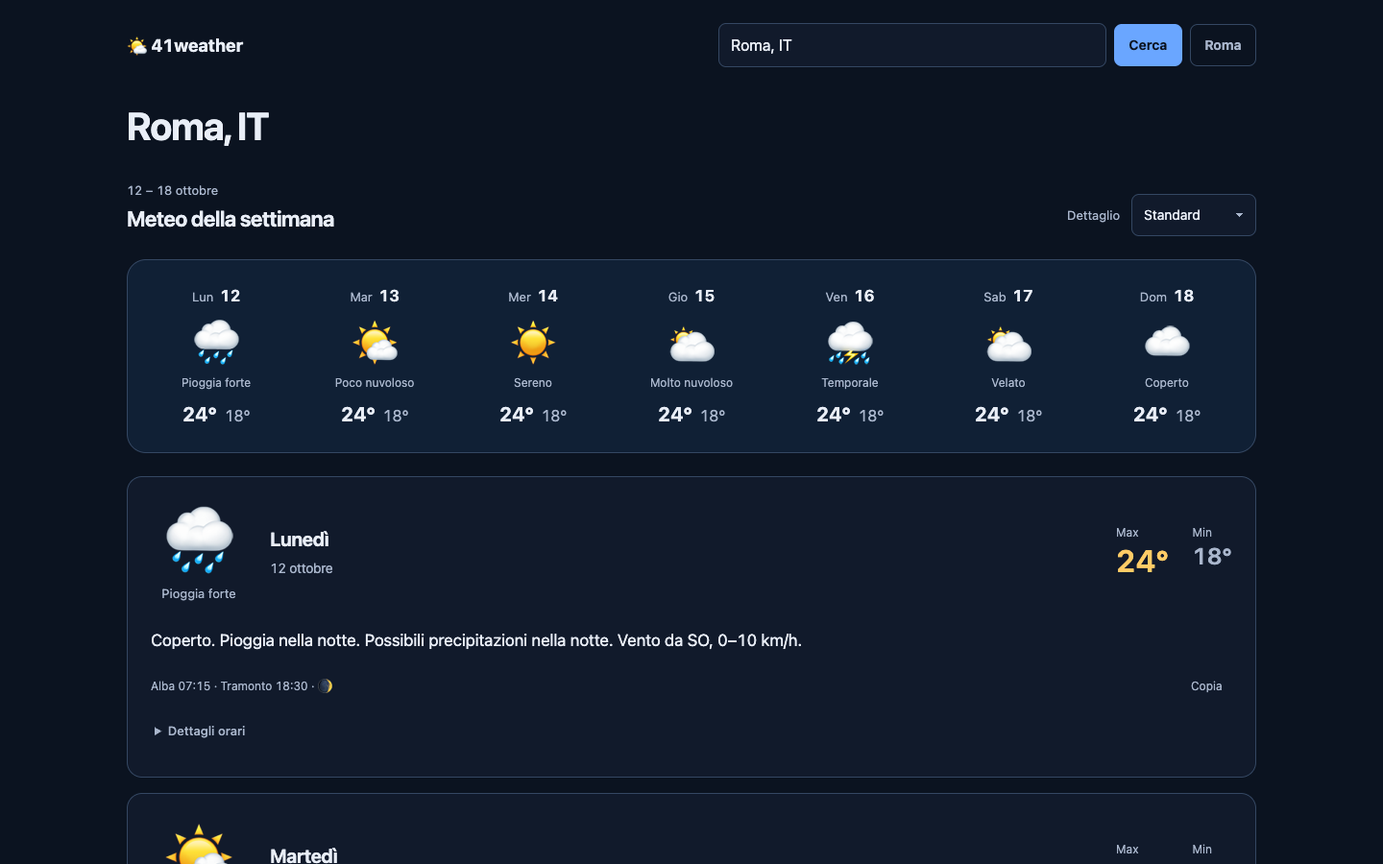
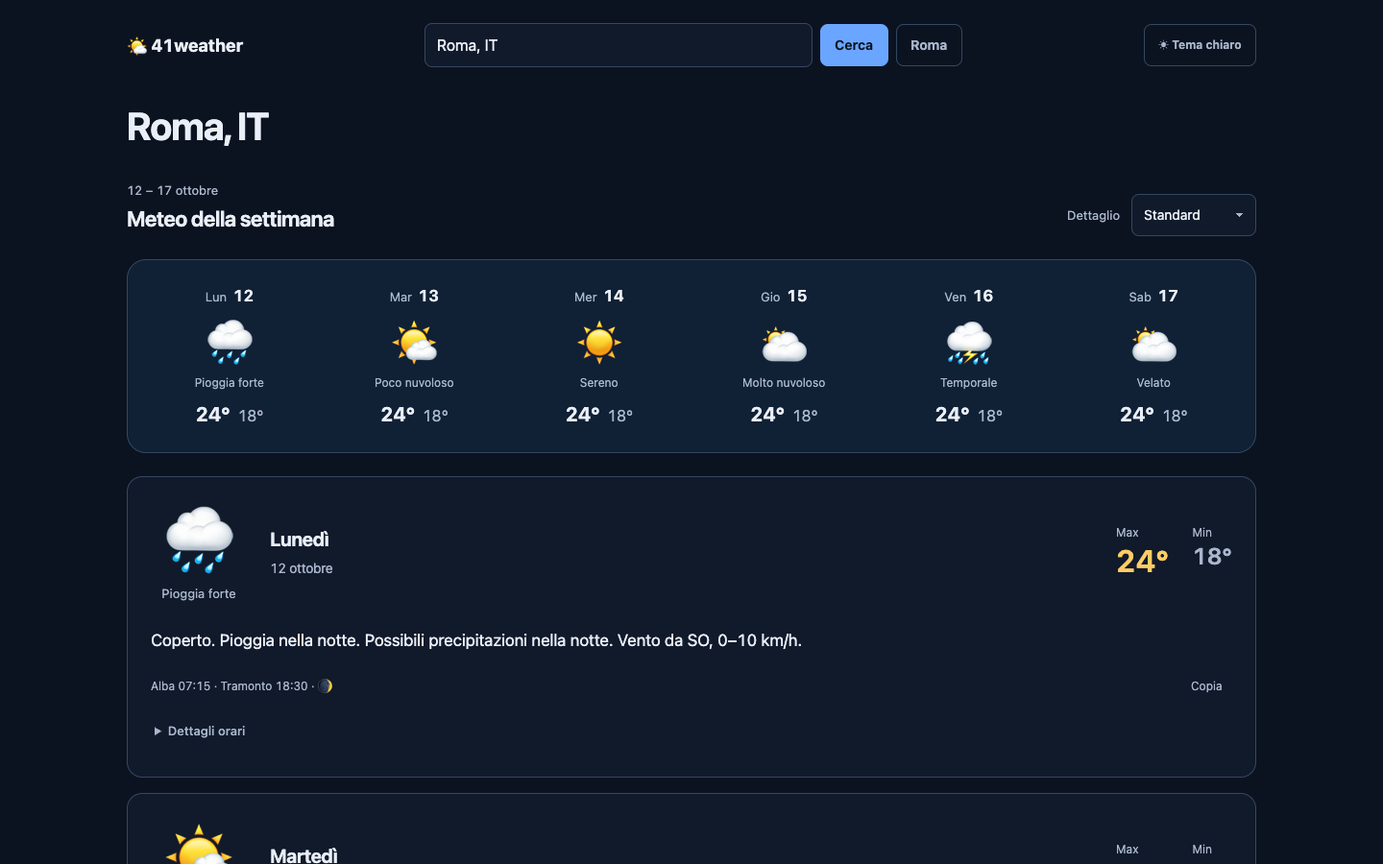
Add light theme, distinct marine columns and hide incomplete final forecasts

diff --git a/ui.js b/ui.js
@@ -82,7 +82,7 @@ function createCard(date) {
     const caption = el('caption', 'sr-only', `Previsioni orarie del ${dateLabel(date)}`);
     const thead = el('thead'), tr = el('tr');
     const headings = ['Ora locale', 'Meteo', 'Temp °C', 'Prob. precip. %', 'Umidità %', 'Pressione hPa', 'Vento km/h', 'Direzione °', 'Onde m', 'Periodo s', 'Dir. onde °', 'Beaufort'];
-    headings.forEach((label, i) => { const th = el('th', i >= 8 ? 'marine-cell' : '', label); th.scope = 'col'; tr.append(th); });
+    headings.forEach((label, i) => { const th = el('th', i >= 8 ? `marine-cell${i === 8 ? ' marine-start' : ''}` : '', label); th.scope = 'col'; tr.append(th); });
     thead.append(tr);
     const tbody = el('tbody'); table.append(caption, thead, tbody); wrapper.append(table);
     const marineState = el('p', 'hint marine-state');
@@ -143,7 +143,7 @@ function updateAtmosphere(card, day) {
             if (i === 1) { const [emoji, label] = icon(h.icon); td.append(el('span', 'weather-symbol', emoji), el('span', 'sr-only', label)); }
             tr.append(td);
         });
-        const marine = Array.from({ length: 4 }, () => el('td', 'marine-cell', '—'));
+        const marine = Array.from({ length: 4 }, (_, i) => el('td', `marine-cell${i === 0 ? ' marine-start' : ''}`, '—'));
         tr.append(...marine);
         return { time: h.time, node: tr, marine };
     });
@@ -182,19 +182,20 @@ function updateMarine(card, snapshot) {
 export function render(snapshot) {
     const atmosphericChange = lastHours !== snapshot.hours;
     activeSnapshot = snapshot;
+    const { days, hours } = snapshot.visible;
     if (atmosphericChange) {
         setText($('loc'), snapshot.location.name);
         setText($('sel'), `${snapshot.location.lat.toFixed(3)}, ${snapshot.location.lon.toFixed(3)} · ${snapshot.location.tz}${snapshot.elevation == null ? '' : ` · ${value(snapshot.elevation, ' m s.l.m.')}`}`);
         const runs = Object.entries(snapshot.models).map(([model, run]) => `${model}: ${run}`).join(' · ');
         setText($('when'), `Acquisizione: ${timestamp(snapshot.fetchedAt, snapshot.location.tz)}${runs ? ` · Run ${runs}` : ''}`);
-        const dates = new Set(snapshot.days.map(d => d.date));
+        const dates = new Set(days.map(d => d.date));
         const rangeDate = date => new Date(`${date}T12:00:00Z`).toLocaleDateString('it-IT', { timeZone: 'UTC', day: 'numeric', month: 'long' });
-        const firstDate = snapshot.days[0].date, lastDate = snapshot.days.at(-1).date;
-        setText($('forecast-range'), firstDate === lastDate ? rangeDate(firstDate) : `${firstDate.slice(0, 7) === lastDate.slice(0, 7) ? Number(firstDate.slice(-2)) : rangeDate(firstDate)} – ${rangeDate(lastDate)}`);
+        const firstDate = days[0]?.date, lastDate = days.at(-1)?.date;
+        setText($('forecast-range'), !days.length ? '' : firstDate === lastDate ? rangeDate(firstDate) : `${firstDate.slice(0, 7) === lastDate.slice(0, 7) ? Number(firstDate.slice(-2)) : rangeDate(firstDate)} – ${rangeDate(lastDate)}`);
         for (const [name, limit] of [['week-days', 7], ['week-tablet-days', 4], ['week-mobile-days', 3]])
-            $('week').style.setProperty(`--${name}`, Math.min(limit, snapshot.days.length));
+            $('week').style.setProperty(`--${name}`, Math.max(1, Math.min(limit, days.length)));
         for (const [date, card] of cards) if (!dates.has(date)) { card.observer?.disconnect(); card.root.remove(); card.weekLink.remove(); cards.delete(date); }
-        for (const [index, day] of snapshot.days.entries()) {
+        for (const [index, day] of days.entries()) {
             let card = cards.get(day.date);
             if (!card) { card = createCard(day.date); cards.set(day.date, card); $('days').append(card.root); $('week').append(card.weekLink); }
             const current = $('days').children[index];
@@ -205,6 +206,9 @@ export function render(snapshot) {
             card.sun = null;
             card.fallback.hidden = card.fallbackLabel.hidden = true; setText(card.copyStatus, '');
         }
+        $('forecast-empty').hidden = days.length > 0;
+        $('verbosity').disabled = days.length === 0;
+        document.querySelector('.chart-section').hidden = !hours.length;
         renderChart(snapshot);
         lastHours = snapshot.hours;
     }
@@ -213,30 +217,53 @@ export function render(snapshot) {
         updateMarine(card, snapshot);
     }
     setText($('sources'), `Mare: ${snapshot.marineStatus ?? 'caricamento…'} · Sole e Luna: ${snapshot.astronomyStatus ?? 'caricamento…'}`);
-    const coverages = [...(snapshot.forecast?.values() ?? [])].map(s => s.facts.find(f => f.category === 'coverage'));
-    setText($('coverage'), snapshot.hours.length ? coverages.some(c => c?.partial || c?.gaps.length) ? 'Copertura atmosferica parziale: consulta i periodi disponibili nelle schede.' : 'Campioni atmosferici disponibili per le date mostrate.' : 'Nessuna copertura atmosferica disponibile.');
+    const coverages = days.map(day => snapshot.forecast.get(day.date)).map(s => s.facts.find(f => f.category === 'coverage'));
+    setText($('coverage'), hours.length ? coverages.some(c => c?.partial || c?.gaps.length) ? 'Copertura atmosferica parziale: consulta i periodi disponibili nelle schede.' : 'Campioni atmosferici disponibili per le date mostrate.' : 'Copertura insufficiente per la vista giornaliera.');
+    if (snapshot.visible.excluded) setText($('coverage'), `${$('coverage').textContent} Giorno finale incompleto escluso.`);
 }
+function chartPalette() {
+    const css = getComputedStyle(document.documentElement);
+    return Object.fromEntries(['text', 'muted', 'accent', 'temperature', 'border', 'surface-raised', 'chart-grid'].map(key => [key, css.getPropertyValue(`--${key}`).trim()]));
+}
+document.addEventListener('41weather:themechange', () => {
+    if (!chart) return;
+    const colors = chartPalette();
+    chart.data.datasets.forEach((dataset, i) => { dataset.borderColor = dataset.backgroundColor = i ? colors.accent : colors.temperature; });
+    chart.options.plugins.legend.labels.color = colors.text;
+    Object.assign(chart.options.plugins.tooltip, { backgroundColor: colors['surface-raised'], titleColor: colors.text, bodyColor: colors.text, borderColor: colors.border });
+    for (const [name, scale] of Object.entries(chart.options.scales)) {
+        const color = name === 'temperature' ? colors.temperature : name === 'probability' ? colors.accent : colors.muted;
+        scale.ticks.color = color;
+        scale.grid.color = colors['chart-grid'];
+        scale.border.color = colors.border;
+        if (scale.title) scale.title.color = color;
+    }
+    chart.update('none');
+});
 function renderChart(snapshot) {
-    chart?.destroy();
+    chart?.destroy(); chart = undefined;
+    const hours = snapshot.visible.hours;
+    if (!hours.length) return;
     if (typeof Chart === 'undefined') { setText($('chart-state'), 'Grafico non disponibile. Consulta le tabelle orarie.'); return; }
     setText($('chart-state'), '');
     const tz = snapshot.location.tz;
     const axisStamp = time => new Date(time).toLocaleString('it-IT', { timeZone: tz, day: '2-digit', month: '2-digit', hour: '2-digit', minute: '2-digit' });
-    const tickTimes = [...new Set(Array.from({ length: 5 }, (_, i) => snapshot.hours[Math.round(i * (snapshot.hours.length - 1) / 4)].time))];
+    const tickTimes = [...new Set(Array.from({ length: 5 }, (_, i) => hours[Math.round(i * (hours.length - 1) / 4)].time))];
     const gaps = new Set([...(snapshot.forecast?.values() ?? [])].flatMap(s => s.diagnostics.gaps));
-    const points = field => snapshot.hours.flatMap((h, i, all) => [
+    const points = field => hours.flatMap((h, i, all) => [
         ...(i && (gaps.has(h.time) || h.time - all[i - 1].time > 10800000) ? [{ x: all[i - 1].time + 1, y: null }] : []), { x: h.time, y: h[field] }
     ]);
+    const colors = chartPalette();
     chart = new Chart($('chart'), {
         type: 'line', data: { datasets: [
-            { label: 'Temperatura °C', data: points('temp'), borderColor: '#ffcc66', backgroundColor: '#ffcc66', yAxisID: 'temperature', tension: 0, pointRadius: 2, spanGaps: false },
-            { label: 'Probabilità precipitazione %', data: points('probability'), borderColor: '#6aa6ff', backgroundColor: '#6aa6ff', borderDash: [5, 3], yAxisID: 'probability', stepped: 'after', pointRadius: 2, spanGaps: false }
+            { label: 'Temperatura °C', data: points('temp'), borderColor: colors.temperature, backgroundColor: colors.temperature, yAxisID: 'temperature', tension: 0, pointRadius: 2, spanGaps: false },
+            { label: 'Probabilità precipitazione %', data: points('probability'), borderColor: colors.accent, backgroundColor: colors.accent, borderDash: [5, 3], yAxisID: 'probability', stepped: 'after', pointRadius: 2, spanGaps: false }
         ] },
         options: { responsive: true, maintainAspectRatio: false, parsing: false, interaction: { mode: 'index', intersect: false },
-            plugins: { legend: { labels: { color: '#e9eef7', boxWidth: 16 } }, tooltip: { callbacks: { title: items => timestamp(items[0].parsed.x, tz) } } },
-            scales: { x: { type: 'linear', min: snapshot.hours[0].time, max: snapshot.hours.at(-1).time, afterBuildTicks: axis => { axis.ticks = tickTimes.map(value => ({ value })); }, ticks: { color: '#a9b6cc', maxTicksLimit: 5, callback: n => axisStamp(n) } },
-                temperature: { position: 'left', title: { display: true, text: '°C', color: '#ffcc66' }, ticks: { color: '#ffcc66' } },
-                probability: { position: 'right', min: 0, max: 100, title: { display: true, text: '%', color: '#6aa6ff' }, ticks: { color: '#6aa6ff' }, grid: { drawOnChartArea: false } } }
+            plugins: { legend: { labels: { color: colors.text, boxWidth: 16 } }, tooltip: { backgroundColor: colors['surface-raised'], titleColor: colors.text, bodyColor: colors.text, borderColor: colors.border, borderWidth: 1, callbacks: { title: items => timestamp(items[0].parsed.x, tz) } } },
+            scales: { x: { grid: { color: colors['chart-grid'] }, border: { color: colors.border }, type: 'linear', min: hours[0].time, max: hours.at(-1).time, afterBuildTicks: axis => { axis.ticks = tickTimes.map(value => ({ value })); }, ticks: { color: colors.muted, maxTicksLimit: 5, callback: n => axisStamp(n) } },
+                temperature: { grid: { color: colors['chart-grid'] }, border: { color: colors.border }, position: 'left', title: { display: true, text: '°C', color: colors.temperature }, ticks: { color: colors.temperature } },
+                probability: { border: { color: colors.border }, position: 'right', min: 0, max: 100, title: { display: true, text: '%', color: colors.accent }, ticks: { color: colors.accent }, grid: { drawOnChartArea: false, color: colors['chart-grid'] } } }
         }
     });
 }

diff --git a/tests/data.test.js b/tests/data.test.js
@@ -55,3 +55,51 @@ test('HTTP failures propagate and are not cached', async () => {
     try { await assert.rejects(fetchJson('https://example.test', undefined, 1000), /429/); await assert.rejects(fetchJson('https://example.test', undefined, 1000), /429/); assert.equal(calls, 2); }
     finally { globalThis.fetch = original; }
 });
+
+test('last-day visibility uses elapsed supported hours, not point counts, and leaves the snapshot intact', async () => {
+    const { visibleForecast } = await import('../meteoam-data.js');
+    const day = (date, offsets) => {
+        const hours = offsets.map(hour => ({ date, time: Date.parse(`${date}T00:00:00Z`) + hour * 3600000, temp: 0, probability: 0, windSpeed: 0, windDir: null, humidity: 0, pressure: 1000, icon: '01' }));
+        return { date, hours, min: 0, max: 0, sampledExtremes: false, icon: '01' };
+    };
+    const first = day('2026-10-12', [0, 1]), last = day('2026-10-13', Array.from({ length: 12 }, (_, i) => i));
+    const s = { days: [first, last], hours: [...first.hours, ...last.hours] }, copy = structuredClone(s);
+    const view = visibleForecast(s);
+    assert.equal(view.days.length, 1); assert.equal(view.hours.length, 2);
+    assert.equal(view.excluded.coverageHours, 11); assert.deepEqual(s, copy);
+    for (const offsets of [Array.from({ length: 13 }, (_, i) => i), [0, 3, 6, 9, 12], [0, 1, 2, 5, 8, 11, 12]]) {
+        const d = day('2026-10-13', offsets);
+        assert.equal(visibleForecast({ days: [d], hours: d.hours }).days.length, 1);
+    }
+    const hole = day('2026-10-13', [0, 1, 12, 13]);
+    assert.equal(visibleForecast({ days: [hole], hours: hole.hours }).days.length, 0);
+    const longerHole = day('2026-10-13', Array.from({ length: 19 }, (_, i) => i).filter(i => i !== 9));
+    assert.equal(visibleForecast({ days: [longerHole], hours: longerHole.hours }).excluded.reason, 'missing-data');
+});
+test('missing atmospheric data/stats exclude only the final date, independently of optional services', async () => {
+    const { visibleForecast } = await import('../meteoam-data.js');
+    const hours = Array.from({ length: 13 }, (_, i) => ({ date: '2026-10-13', time: Date.parse('2026-10-13T00:00:00Z') + i * 3600000, temp: 0, probability: 0, windSpeed: 0, windDir: null, humidity: 0, pressure: 1000, icon: '01' }));
+    const day = { date: '2026-10-13', hours, min: 0, max: 0, sampledExtremes: false, icon: '01' };
+    const s = { days: [day], hours, marineStatus: 'non disponibili', astronomyStatus: 'non disponibili' };
+    assert.equal(visibleForecast(s).excluded, null);
+    for (const field of ['temp', 'probability', 'windSpeed', 'humidity', 'pressure', 'icon']) {
+        const damaged = structuredClone(s); damaged.days[0].hours[1][field] = null;
+        assert.equal(visibleForecast(damaged).excluded.reason, 'missing-data');
+    }
+    for (const patch of [{ sampledExtremes: true }, { icon: '-' }, { min: null }, { max: null }]) {
+        const damaged = structuredClone(s); Object.assign(damaged.days[0], patch);
+        assert.equal(visibleForecast(damaged).excluded.reason, 'missing-data');
+    }
+    const windy = structuredClone(s); windy.days[0].hours[0].windSpeed = 10;
+    assert.equal(visibleForecast(windy).excluded.reason, 'missing-data');
+    assert.equal(visibleForecast({ days: [], hours: [] }).days.length, 0);
+});
+test('twelve real UTC hours survive DST repeated/skipped wall-clock hours', async () => {
+    const { visibleForecast } = await import('../meteoam-data.js');
+    for (const start of ['2026-10-24T22:00:00Z', '2026-03-28T23:00:00Z']) {
+        const hours = Array.from({ length: 13 }, (_, i) => ({ time: Date.parse(start) + i * 3600000, temp: 10, probability: 0, windSpeed: 0, windDir: null, humidity: 50, pressure: 1000, icon: '01' }));
+        hours.forEach(h => h.date = dateKey(h.time, 'Europe/Rome'));
+        const day = { date: hours[0].date, hours, min: 10, max: 10, sampledExtremes: false, icon: '01' };
+        assert.equal(visibleForecast({ days: [day], hours }).excluded, null);
+    }
+});

diff --git a/styles.css b/styles.css
@@ -11,6 +11,11 @@
     --temperature: #ffcc66;
     --error: #ff8e8e;
     --focus: #b8d4ff;
+    --chart-grid: #253650;
+    --marine-bg: #102a2b;
+    --marine-header: #163a3a;
+    --marine-text: #83d8c5;
+    --marine-border: #32665f;
     --font: system-ui, -apple-system, 'Segoe UI', sans-serif;
     --small: .8125rem;
     --body: 1rem;
@@ -21,6 +26,25 @@
     --space-5: 2rem;
     --radius: 16px;
     --hour-col-width: 132px;
+}
+[data-theme="light"] {
+    color-scheme: light;
+    --bg: #f3f6fb;
+    --surface: #ffffff;
+    --surface-raised: #e9eff8;
+    --surface-week: #eaf1fa;
+    --border: #becbe0;
+    --text: #17263b;
+    --muted: #4b607c;
+    --accent: #235fbb;
+    --temperature: #956008;
+    --error: #b42335;
+    --focus: #2057a8;
+    --chart-grid: #d6dfec;
+    --marine-bg: #e6f5f1;
+    --marine-header: #d0eae2;
+    --marine-text: #166555;
+    --marine-border: #94c4b4;
 }
 * { box-sizing: border-box; }
 [hidden] { display: none !important; }
@@ -42,9 +66,12 @@ input, select, textarea { color: var(--text); background: var(--surface); border
 select { appearance: none; padding-right: 2rem; background-image: linear-gradient(45deg, transparent 50%, var(--muted) 50%), linear-gradient(135deg, var(--muted) 50%, transparent 50%); background-position: calc(100% - 16px) 50%, calc(100% - 12px) 50%; background-size: 4px 4px; background-repeat: no-repeat; }
 .search input { flex: 1; width: 100%; min-width: 0; }
 .btn { background: var(--accent); color: var(--bg); border: 1px solid transparent; border-radius: 8px; padding: .55rem .9rem; font-size: .875rem; font-weight: 650; }
+[data-theme="light"] .btn:not(.ghost) { color: #ffffff; }
 .btn:hover { filter: brightness(1.12); }
 .btn.ghost { background: transparent; border-color: var(--border); color: var(--muted); }
-.active-location { flex-basis: 100%; padding-top: var(--space-2); }
+.theme-toggle { order: 2; font-size: .75rem; white-space: nowrap; }
+.search { order: 1; }
+.active-location { order: 3; flex-basis: 100%; padding-top: var(--space-2); }
 .active-location h2 { font-size: clamp(1.9rem, 4vw, 2.5rem); line-height: 1.25; font-weight: 650; }
 .active-location p { margin-top: .5rem; }
 #status:empty, #chart-state:empty { display: none; }
@@ -113,6 +140,9 @@ td { color: var(--muted); }
 th:first-child, td:first-child { position: sticky; left: 0; background: var(--surface-raised); z-index: 2; text-align: left; color: var(--text); }
 th:nth-child(2), td:nth-child(2) { position: sticky; left: var(--hour-col-width); background: var(--surface-raised); z-index: 2; text-align: center; }
 th:first-child, th:nth-child(2) { z-index: 5; }
+td.marine-cell { background: var(--marine-bg); color: var(--marine-text); border-bottom-color: var(--marine-border); }
+th.marine-cell { background: var(--marine-header); color: var(--marine-text); border-bottom-color: var(--marine-border); }
+.marine-start { border-left: 2px solid var(--marine-border); }
 .weather-symbol { font-size: 1.15rem; }
 .temp { color: var(--temperature); }
 .rain { color: var(--accent); }
@@ -139,6 +169,7 @@ footer { padding-top: 0; color: var(--muted); font-size: var(--small); overflow-
     .site-header, main, footer { padding-inline: var(--space-3); }
     .site-header { padding-block: var(--space-3); gap: var(--space-3); }
     .search { width: 100%; }
+    .theme-toggle { order: 0; margin-left: auto; padding-inline: .4rem; }
     .btn { padding-inline: .65rem; }
     .active-location { padding-top: .25rem; }
     .section-header { align-items: center; margin-bottom: var(--space-3); }

diff --git a/meteoam-data.js b/meteoam-data.js
@@ -106,3 +106,27 @@ export function normalizeAstronomy(payload) {
         illumination: bounded(d.moon_illumination, 0, 100)
     }]));
 }
+
+// Display policy only: keep the full normalized series for analysis/diagnostics.
+// Count supported elapsed UTC intervals, never points as hours or an extension
+// after the final point. Only the final date is eligible for exclusion.
+export function visibleForecast(snapshot, { minimumHours = 12 } = {}) {
+    if (!Number.isFinite(minimumHours) || minimumHours < 0) throw new RangeError('Soglia oraria non valida');
+    const allDays = snapshot.days ?? [], last = allDays.at(-1);
+    const finite = n => typeof n === 'number' && Number.isFinite(n);
+    const samples = (last?.hours ?? []).filter(h => finite(h.time)).slice().sort((a, b) => a.time - b.time);
+    const coverageHours = samples.slice(1).reduce((sum, h, i) => {
+        const step = (h.time - samples[i].time) / 3600000;
+        return sum + ([1, 3].includes(step) ? step : 0);
+    }, 0);
+    const discontinuity = samples.some((h, i) => i > 0 && ![1, 3].includes((h.time - samples[i - 1].time) / 3600000));
+    const missing = last && (discontinuity || samples.length !== (last.hours ?? []).length || last.sampledExtremes || !finite(last.min) || !finite(last.max) || !iconSemantics(last.icon) ||
+        !samples.length || samples.some(h => !iconSemantics(h.icon) ||
+            ['temp', 'probability', 'windSpeed', 'humidity', 'pressure'].some(field => !finite(h[field])) ||
+            h.windSpeed > 2 && !finite(h.windDir)));
+    const exclude = last && (missing || coverageHours < minimumHours);
+    const days = exclude ? allDays.slice(0, -1) : allDays.slice();
+    const dates = new Set(days.map(d => d.date));
+    return { days, hours: (snapshot.hours ?? []).filter(h => dates.has(h.date)),
+        excluded: exclude ? { date: last.date, coverageHours, reason: missing ? 'missing-data' : 'short-coverage' } : null };
+}

diff --git a/theme.js b/theme.js
@@ -1,0 +1,27 @@
+// Synchronous head script: choose the palette before styles/first paint.
+(() => {
+    const key = '41weather.theme';
+    const system = window.matchMedia?.('(prefers-color-scheme: dark)');
+    let preference = null;
+    try { const saved = localStorage.getItem(key); if (saved === 'dark' || saved === 'light') preference = saved; } catch { /* Optional storage. */ }
+    function apply(theme) {
+        document.documentElement.dataset.theme = theme;
+        const button = document.getElementById('themeToggle');
+        if (button) {
+            document.getElementById('themeSymbol').textContent = theme === 'dark' ? '☀' : '☾';
+            document.getElementById('themeLabel').textContent = theme === 'dark' ? 'Tema chiaro' : 'Tema scuro';
+            button.setAttribute('aria-label', theme === 'dark' ? 'Passa al tema chiaro' : 'Passa al tema scuro');
+        }
+        document.dispatchEvent(new CustomEvent('41weather:themechange'));
+    }
+    apply(preference ?? (system?.matches === false ? 'light' : 'dark'));
+    document.addEventListener('DOMContentLoaded', () => {
+        apply(document.documentElement.dataset.theme);
+        document.getElementById('themeToggle').addEventListener('click', () => {
+            preference = document.documentElement.dataset.theme === 'dark' ? 'light' : 'dark';
+            try { localStorage.setItem(key, preference); } catch { /* Keep the in-memory choice. */ }
+            apply(preference);
+        });
+    }, { once: true });
+    system?.addEventListener('change', () => { if (!preference) apply(system.matches ? 'dark' : 'light'); });
+})();

diff --git a/index.html b/index.html
@@ -6,6 +6,7 @@
   <title>41weather - Client Previsioni MeteoAM</title>
   <link rel="preconnect" href="https://api.meteoam.it">
   <link rel="preconnect" href="https://geocoding-api.open-meteo.com">
+  <script src="theme.js"></script>
   <link rel="stylesheet" href="styles.css">
 </head>
 <body>
@@ -18,6 +19,7 @@
       <button id="searchBtn" class="btn" type="button">Cerca</button>
       <button id="useRome" class="btn ghost" type="button">Roma</button>
     </div>
+    <button id="themeToggle" class="btn ghost theme-toggle" type="button"><span id="themeSymbol" aria-hidden="true">☀</span> <span id="themeLabel">Tema chiaro</span></button>
     <div class="active-location">
       <h2 id="loc">Previsioni</h2>
       <p id="status" class="hint" role="status" aria-live="polite">Caricamento…</p>
@@ -38,6 +40,7 @@
           </select>
         </div>
       </div>
+      <p id="forecast-empty" class="hint" role="status" hidden>Copertura insufficiente per mostrare le previsioni giornaliere.</p>
       <nav id="week" class="week-grid" aria-label="Previsioni dei prossimi giorni"></nav>
       <div id="days" class="days"></div>
     </section>

diff --git a/app.js b/app.js
@@ -1,4 +1,4 @@
-import { normalizeForecast, normalizeMarine, number } from './meteoam-data.js';
+import { normalizeForecast, normalizeMarine, number, visibleForecast } from './meteoam-data.js';
 import { meteogram, geocode, astronomy, RequestScope } from './services.js';
 import { render, status } from './ui.js';
 import { analyzeForecast } from './forecast-text.js';
@@ -20,6 +20,7 @@ async function load(target) {
         const snapshot = normalizeForecast(data, location);
         // One analysis per atmospheric dataset; optional enrichments mutate this snapshot.
         snapshot.forecast = analyzeForecast(snapshot);
+        snapshot.visible = visibleForecast(snapshot);
         // Commit a consistent location only after the required weather data is ready.
         render(snapshot);
         updateUrl(snapshot.location);

diff --git a/qa/RESULTS.md b/qa/RESULTS.md
@@ -4,16 +4,16 @@ Base verified twice: PR #1 remains open at `186ac92b9a6e4012c115c43bfc8a29aebfbd
 
 ## Executed checks
 
-- `npm test`: **29 passed**, including the original 7 regressions. Pure analysis/rendering tests cover unknown/missing/zero values, significant phenomena and probability disagreement, sustained vs isolated sky changes, observed pauses vs holes, mixed resolutions, midnight, truncated coverage, 23/25-hour days, fractional zones, circular/calm/absent wind, configurable rules, determinism and no snapshot mutation. Editorial regression tests enforce deduplicated veils, no sample boilerplate, no zero probabilities in prose, positive fractional probabilities without rounding to zero, and direct phenomenon names grouped only when time/intermittency/probability qualifications match.
+- `npm test`: **32 passed**, including the original 7 regressions. Pure analysis/rendering tests cover unknown/missing/zero values, significant phenomena and probability disagreement, sustained vs isolated sky changes, observed pauses vs holes, mixed resolutions, midnight, truncated coverage, 23/25-hour days, fractional zones, circular/calm/absent wind, configurable rules, determinism and no snapshot mutation. Editorial regression tests enforce deduplicated veils, no sample boilerplate, no zero probabilities in prose, positive fractional probabilities without rounding to zero, and direct phenomenon names grouped only when time/intermittency/probability qualifications match.
 - `node --check` for changed JavaScript modules and QA script; `git diff --check` passed.
 - `qa/browser.mjs`: **passed in Chrome 155.0.8059.40 and Playwright WebKit 27.2** on macOS. Real HTML/CSS layout, native details and actual Chart.js 4.4.1, with deterministic intercepted provider responses.
 - Widths **320, 390, 768, 1440 px**, including a 1440→320 resize. No page-wide horizontal overflow; tables retain their own horizontal scrolling; sticky offsets match measured column widths after resize/opening/marine enrichment. Text is selectable outside the clickable summary, and the chart uses the available content width.
-- Keyboard Enter/Space opens details; mobile contexts use emulated touch taps. Focus outlines are visible. Full-page detail screenshots and viewport weekly-overview screenshots were generated in both browsers at all four widths. Representative screenshots inspected visually: Chrome 390/1440 and WebKit 320/1440. Committed weekly views: [WebKit 390 px](evidence/week-webkit-390.png) and [Chrome 1440 px](evidence/week-chromium-1440.png). Full detail views: [WebKit 320 px](evidence/webkit-320.png) and [Chrome 1440 px](evidence/chromium-1440.png).
-- The seven-day overview keeps all tiles inside its container at every width, and prominent day/week icons remain readable. Week links jump to the correct date without fetching or creating a Chart; hidden technical metadata is accessible on opening its disclosure, and the small copy action and detail selector retain a 44 px touch target in both browsers.
+- Keyboard Enter/Space opens details; mobile contexts use emulated touch taps. Focus outlines are visible. Full-page detail screenshots and viewport weekly-overview screenshots were generated in both browsers at all four widths. Representative screenshots inspected visually: Chrome 390/1440 and WebKit 320/1440. Committed weekly views: [WebKit 390 px](evidence/week-webkit-390.png) and [Chrome 1440 px](evidence/week-chromium-1440.png). Light-theme views: [Chrome 1440 px](evidence/week-light-chromium-1440.png), [WebKit 390 px](evidence/week-light-webkit-390.png), [marine columns](evidence/marine-light-webkit-390.png). Full detail views: [WebKit 320 px](evidence/webkit-320.png) and [Chrome 1440 px](evidence/chromium-1440.png).
+- The six-day visible overview (seven supplied dates, incomplete final date excluded) keeps all tiles inside its container at every width, and prominent day/week icons remain readable. Week links jump to the correct date without fetching or creating a Chart; hidden technical metadata is accessible on opening its disclosure, and the small copy action and detail selector retain a 44 px touch target in both browsers.
 - Enrichments preserve week-link/card/paragraph/row identity, focus, selection, window/table scroll and open state in the controlled scenario. Four detail levels preserve the number of fetches and Chart instances. Preference survives reload; denied storage works in memory.
 - Copy includes the active location, current level, temperatures and only the selected date. Both denied and absent Clipboard APIs produce a focused, selectable manual fallback. Failed optional HTTP services leave forecasts usable. Rapid searches, delayed geocoding, stale astronomy and failed/no-coverage searches preserve the latest committed location and URL.
 
-A real public MeteoAM Napoli payload was acquired on 2026-10-11. The committed fixture preserves 12 consecutive UTC samples, daily stats and model runs, including positive probabilities. Functional browser scenarios use that fixture and an explicitly synthetic repeated second day; the visual scenario uses the real first day plus six synthetic days with varied weather icons. Astronomy/marine responses are synthetic so failures and delays are reproducible.
+A real public MeteoAM Napoli payload was acquired on 2026-10-11. The committed fixture preserves 12 consecutive UTC samples, daily stats and model runs, including positive probabilities. Functional browser scenarios use that fixture and an explicitly synthetic repeated second day; the visual scenario supplies the real first day plus six synthetic dates with varied weather icons; the final short date is excluded, leaving six displayed days. Synthetic middle dates have 13 hourly points (12 elapsed hours). Astronomy/marine responses are synthetic so failures and delays are reproducible.
 
 ## Measured weight and contrast
 
@@ -32,8 +32,11 @@ Contrast ratios against the card surface `#111a2b`, computed from sRGB relative 
 
 ## Scope and remaining limits
 
-WebKit was tested as Playwright WebKit, **not the Safari application**. Touch was emulated, not tested on physical iOS/Android devices. No screen-reader audit was performed. The deterministic browser suite does not verify current API uptime/CORS; the real forecast fixture was obtained over HTTP separately. Browser screenshots are QA evidence, not images generated from a DOM simulation.
+WebKit was tested as Playwright WebKit, **not the Safari application**. Touch was emulated, not tested on physical iOS/Android devices. No screen-reader audit was performed. The deterministic browser suite does not verify current API uptime/CORS; the real forecast fixture was obtained over HTTP separately. Both light and dark themes are checked at 320/390/768/1440 px, including theme persistence, denied storage, system preference changes, palette changes on the existing Chart and distinct marine column backgrounds. Missing/short final dates disappear consistently from cards, grid, date range and chart; an excluded sole date produces a usable empty state. Browser screenshots are QA evidence, not images generated from a DOM simulation.
 
 The probability interval remains undocumented by the provider. Prose reports model indications, never official alerts, gusts, amounts or daily risk. Numeric zeros and nulls remain distinct even though zero probabilities are omitted from prose. Sample resolution does not prove continuity; no event is extended beyond its last point. Detailed time windows identify the model's indicated times rather than exact onset/cessation. Secondary supported sky changes remain in diagnostics but at most one increase and one clearing are selected for brevity. Atmospheric partial-period labels and provider stats notes are separate from the generated text, available in hourly details; fallback temperatures remain visibly labeled “estremi parziali” / “parziali”. Coordinate/timezone/run/source metadata and chart explanations are closed by default; loading and search errors remain visible.
 
 Reproduce with the temporary-install commands in README. Screenshots are written to `QA_OUTPUT` (default `/tmp/41weather-qa-results`).
+
+
+Additional contrast measurements for the light palette (on white unless specified): main text 15.25:1, muted text 6.44:1, accent 6.13:1, temperature 5.31:1. Marine text is 6.18:1 on the light marine body and 5.47:1 on its header; dark marine text is 9.07:1 on its body and 7.41:1 on its header.

diff --git a/README.md b/README.md
@@ -122,4 +122,13 @@ node qa/browser.mjs
 
 Optionally set `CHROME_EXECUTABLE` to an installed Chrome executable and `QA_OUTPUT` to a screenshot output directory (default `/tmp/41weather-qa-results`). Tests use real browser rendering and actual Chart.js, deterministic intercepted API responses, the real Napoli fixture and explicitly synthetic added dates. Functional scenarios have two dates; visual scenarios use seven varied days to inspect the full weekly grid. They verify 320/390/768/1440 px, touch emulation and keyboard, weekly links without network/chart changes, collapsible metadata, prominent icons and usable copy targets, table confinement/sticky measurements, resize, node/focus/selection/scroll/open-state preservation, detail without network/new chart, persistence, denied storage/clipboard, date-isolated copy, optional failures and rapid searches with stale replies. They do not contact live APIs during the deterministic run. See [qa/RESULTS.md](qa/RESULTS.md) for the recorded results and limits.
 
-Measured generator weight: **19,000 bytes source / 6,223 bytes gzip** (Node `gzipSync` defaults), within the initial target. The full recorded validation has **29 passing Node tests** plus real Chrome/WebKit QA; Safari itself, physical touch devices and screen readers were not audited.
+Measured generator weight: **19,000 bytes source / 6,223 bytes gzip** (Node `gzipSync` defaults), within the initial target. The full recorded validation has **32 passing Node tests** plus real Chrome/WebKit QA; Safari itself, physical touch devices and screen readers were not audited.
+
+
+## Themes, marine columns and the final forecast date
+
+The header theme button switches between light and dark palettes. Initially it follows the system preference; an explicit choice is saved in optional `localStorage` (`41weather.theme`), with an in-memory fallback if storage is denied. The initial palette is applied before first paint. Without an explicit choice, system theme changes are followed. Chart lines, labels, axes and tooltips read the same palette tokens and update the existing Chart instance without refetching, reanalysis or card reconstruction. Marine columns use a separate teal background/text palette and a leading divider in both themes.
+
+`visibleForecast()` is a pure display policy evaluated once per atmospheric dataset. It excludes **only the original final date** if it has fewer than 12 covered UTC hours or incomplete atmospheric data/stats. Covered hours are the sum of adjacent supported 1 h / 3 h timestamp intervals, with no extension after the last point: 13 hourly points or five three-hour points can cover exactly 12 hours; 12 hourly points cover 11. Holes, absent temperature/probability/wind/humidity/pressure, uninterpretable icons and fallback/missing daily extrema count as incomplete; absent direction is allowed for calm wind (≤2 km/h). Marine/astronomy availability has no effect. Earlier partial dates are retained.
+
+The full normalized series remains intact for analysis and diagnostics. Daily cards, weekly grid/date range and chart consistently use the visible subset; the grid resizes to the remaining dates. If the only date is excluded, the page shows insufficient coverage and hides the empty chart. The forecast grammar itself is unchanged.

diff --git a/api.md b/api.md
@@ -83,3 +83,5 @@ Si conserva il comportamento esistente: selezione del primo risultato. Nome, coo
 Hourly probability is kept separate from phenomena and data coverage. Editorial thresholds and temporal rules are documented in README. Positive probabilities alone only name generic precipitation. Zero is retained in data and numeric views but omitted from generated prose. No daily probability, accumulation, gust or statistical interval is inferred. The detailed positive range is explicitly labeled positive if zero-valued hours also occur in that band. Diagnostics retain the complete evidence, including zeros and nulls.
 
 The real regression fixture `tests/fixtures/napoli-real.json` records 12 original consecutive UTC samples from preset1 at 40.8518,14.2681, acquired on 2026-10-11, including nonzero `tpp` values and unchanged daily stats/model runs. Its source URL and reduction are recorded alongside the payload.
+
+The final-date display policy does not change the provider contract or mutate normalized values. It filters only the visible cards/grid/chart, using at least 12 elapsed supported UTC hours and complete atmospheric fields/stats; optional marine/astronomy values are excluded from this decision. Full data and generator evidence remain available internally.
